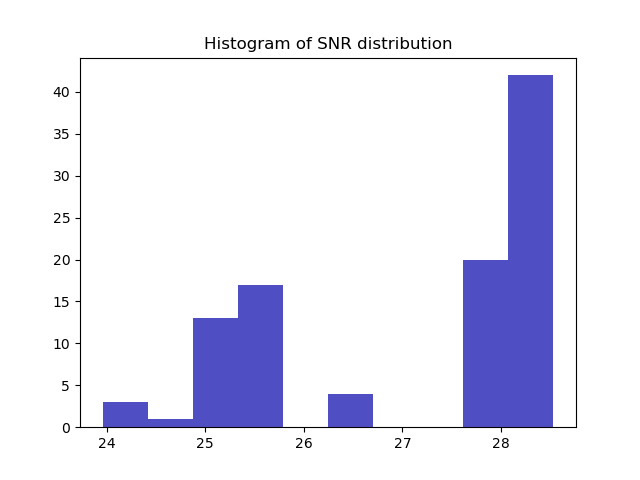
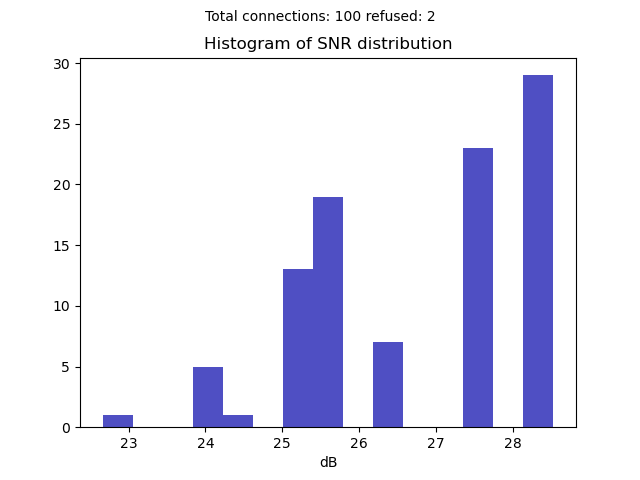
Add new details to graphs, generalized test_connection function
Add a lot of new informations to the histograms, like the numbers of connections, refused. New function count_connection (returns number of accepted connections and more), now test_connection can recieve the number of random connections to test

diff --git a/core/classes/utils.py b/core/classes/utils.py
@@ -53,16 +53,20 @@ def all_pairs(nodes):
     return pairs
 
 
-def plot_histogram(array, title):
-    plt.hist(array, bins=10, color='#0504aa', alpha=0.7)
+def plot_histogram(array, title, text=None, unit=None):
+    plt.hist(array, bins=15, color='#0504aa', alpha=0.7)
     plt.title('Histogram of {}'.format(title))
+    if text is not None:
+        plt.suptitle(text, fontsize=10)
+    if unit is not None:
+        plt.xlabel(unit)
     plt.show()
 
 
-def test_100_connections(network):
+def test_connections(network, n=100):
     c_array = []
     labels = ['A', 'B', 'C', 'D', 'E', 'F']
-    for i in range(100):
+    for i in range(n):
         label1 = random.choice(labels)
         label2 = random.choice(labels)
         while label1 == label2:
@@ -74,6 +78,7 @@ def test_100_connections(network):
 
 
 def histogram_of_connections(c_array):
+    total_connections, c_array, refused_connections = count_connections(c_array)
     con_latency = []
     con_snr = []
     for connection in c_array:
@@ -83,21 +88,33 @@ def histogram_of_connections(c_array):
             con_snr.append(connection.snr)
             con_latency.append(connection.latency)
     # change from s to ms
-    con_latency = [x * 1000 if x is not None else 0 for x in con_latency]
-    plot_histogram(con_latency, 'Latency')
-    plot_histogram(con_snr, 'Signal to noise ratio')
+    con_snr = [x for x in con_snr]
+    con_latency = [x * 1000 for x in con_latency]
+    plot_histogram(con_latency, 'Latency distribution',
+                   text='Total connections: {} refused: {}'.format(total_connections, refused_connections), unit='ms')
+    plot_histogram(con_snr, 'SNR distribution', unit='dB')
     return con_latency, con_snr
 
 
+def count_connections(connections):
+    total_connections = len(connections)
+    accepted_connections = [c for c in connections if c.latency is not None]
+    refused_connections = total_connections - len(accepted_connections)
+
+    return total_connections, accepted_connections, refused_connections
+
+
 def lab8_histograms(c_array):
+    total_connections, c_array, refused_connections = count_connections(c_array)
     con_snr = []
     con_bit_rate = []
     for connection in c_array:
         con_snr.append(connection.snr)
         con_bit_rate.append(connection.bit_rate)
-    con_bit_rate = [x / 1e9 for x in con_bit_rate]
-    plot_histogram(con_snr, 'SNR distribution')
-    plot_histogram(con_bit_rate, 'Bit rate distribution')
+    con_bit_rate = [bit_rate_to_Giga_per_seconds(x) for x in con_bit_rate]
+    plot_histogram(con_snr, 'SNR distribution',
+                   text='Total connections: {} refused: {}'.format(total_connections, refused_connections), unit='dB')
+    plot_histogram(con_bit_rate, 'Bit rate distribution', unit='Gbit/s')
     return con_snr, con_bit_rate
 
 
@@ -106,15 +123,21 @@ def bit_rate_to_Giga_per_seconds(bit_rate):
 
 
 def print_bit_rate_and_snr_average_and_total_c(connections):
+    total_connections, connections, refused_connections = count_connections(connections)
     snrs = []
     bit_rates = []
     for connection in connections:
         snrs.append(connection.snr)
         bit_rates.append(connection.bit_rate)
-    bit_rates = [bit_rate_to_Giga_per_seconds(bit_rate) for bit_rate in bit_rates]
-    print('Average SNR: {} dB, Average bit rate: {} Gbit/s, Total capacity: {} Gbit/s'.format(np.average(snrs),
-                                                                                              np.average(bit_rates),
-                                                                                              np.sum(bit_rates)))
+    snrs = [x for x in snrs if x != 0]
+    bit_rates = [bit_rate_to_Giga_per_seconds(bit_rate) for bit_rate in bit_rates if bit_rate != 0]
+    print(
+        'Total connections: {}, Refused connections: {}, Average SNR: {} dB, Average bit rate: {} Gbit/s, Total capacity: {} Gbit/s'.format(
+            total_connections,
+            refused_connections,
+            np.average(snrs),
+            np.average(bit_rates),
+            np.sum(bit_rates)))
     return np.average(snrs), np.average(bit_rates), np.sum(bit_rates)
 
 
@@ -151,6 +174,7 @@ def create_traffic_matrix(network):
 
 
 def traffic_matrix_results_plot(conn, r, s):
+    total_connections, conn, refused_connections = count_connections(conn)
     con_snrs = []
     con_latencies = []
     con_bit_rates = []
@@ -158,24 +182,30 @@ def traffic_matrix_results_plot(conn, r, s):
         con_snrs.append(connection.snr)
         con_bit_rates.append(connection.bit_rate)
         con_latencies.append(connection.latency)
+    con_snrs = [x for x in con_snrs]
     con_bit_rates = [bit_rate_to_Giga_per_seconds(bit_rate) for bit_rate in con_bit_rates]
-    con_latencies = [x * 1000 if x is not None else 0 for x in con_latencies]
+    con_latencies = [x * 1000 for x in con_latencies]
     fig, axs = plt.subplots(2, 2, figsize=(20, 10))
     fig.suptitle(
-        'Traffic Matrix result, Average SNR: {:.2f} dB, Average bit rate: {:.2f} Gbit/s, Total capacity: {:.2f} Gbit/s'.format(
+        'Traffic Matrix result, Total Connections: {}, Average SNR: {:.2f} dB, Average bit rate: {:.2f} Gbit/s, '
+        'Total capacity: {:.2f} Gbit/s'.format(
+            total_connections,
             np.average(con_snrs),
             np.average(con_bit_rates),
             np.sum(con_bit_rates)))
-    axs[0, 0].hist(con_snrs, bins=10, color='#0504aa', alpha=0.7)
+    axs[0, 0].hist(con_snrs, bins=20, color='#0504aa', alpha=0.7)
     axs[0, 0].set_title('Histogram of SNR distribution')
     axs[0, 0].set(xlabel='dB')
     axs[1, 0].hist(con_bit_rates, bins=10, color='#f59e42', alpha=0.7)
     axs[1, 0].set_title('Histogram of Bit rate distribution')
     axs[1, 0].set(xlabel='Gbit/s')
-    axs[0, 1].hist(con_latencies, bins=10, color='#e342f5', alpha=0.7)
+    axs[0, 1].hist(con_latencies, bins=20, color='#e342f5', alpha=0.7)
     axs[0, 1].set_title('Histogram of Latency distribution')
     axs[0, 1].set(xlabel='ms')
-    axs[1, 1].bar(['Satisfied', 'Refused'], [s, len(r)], color=['#14e00d', '#e00d0d'])
+    bar1 = axs[1, 1].bar(['Satisfied', 'Refused'], [s, len(r)], color=['#14e00d', '#e00d0d'])
+    for rect in bar1:
+        height = rect.get_height()
+        axs[1, 1].text(rect.get_x() + rect.get_width() / 2.0, height, '%d' % int(height), ha='center', va='bottom')
     axs[1, 1].set_title('Satisfied vs Refused requests')
     plt.show()
 

diff --git a/core/main.py b/core/main.py
@@ -6,7 +6,7 @@ if __name__ == '__main__':
     weighted_paths_df = pd.read_csv('./data/lab10_dataframe.csv', index_col=0)
     net.weighted_paths = weighted_paths_df
 
-    # connections = test_100_connections(net)
+    # connections = test_connections(net, 100)
     # snrs, bit_rates = lab8_histograms(connections)
     # print_bit_rate_and_snr_average_and_total_c(connections)
     # net.draw()
